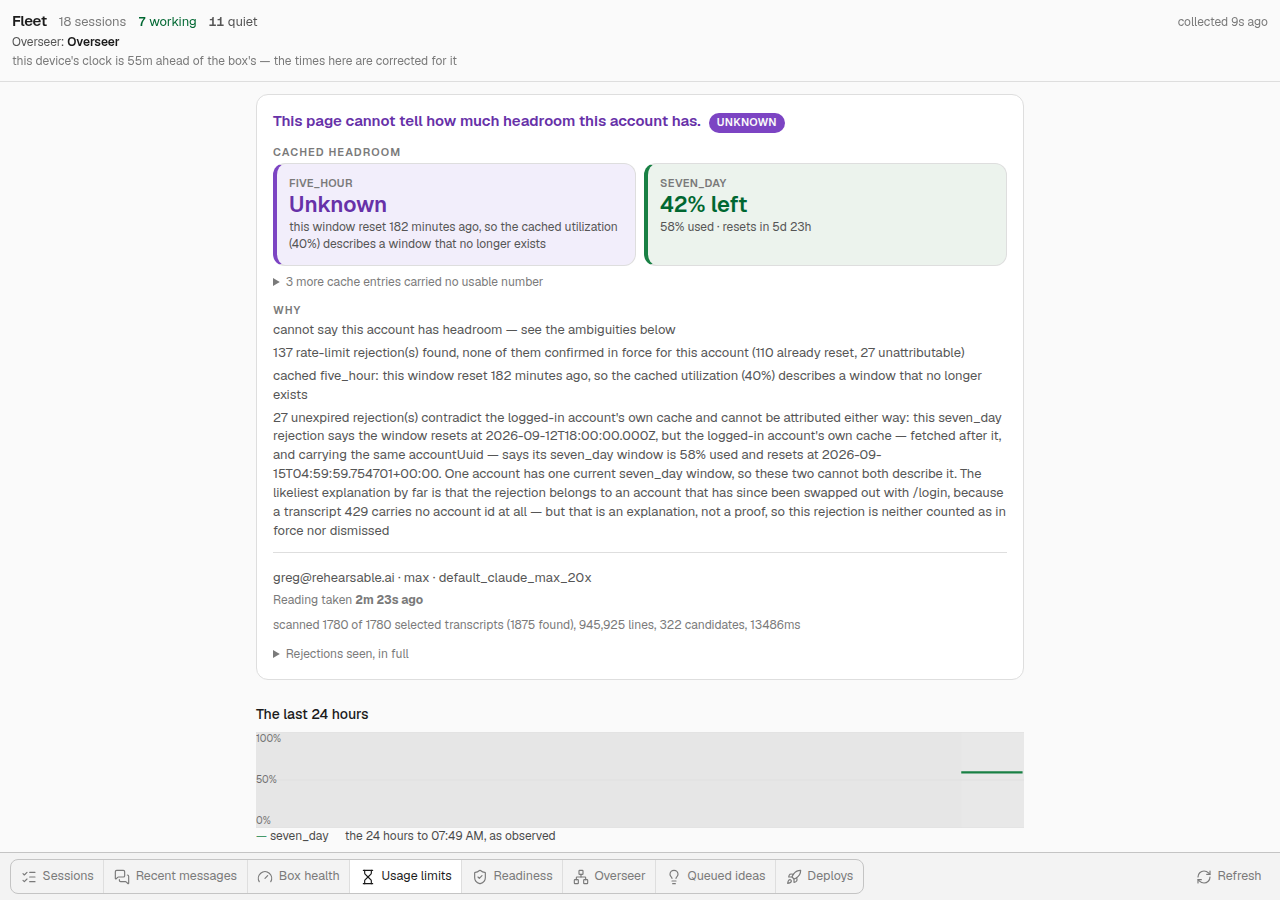
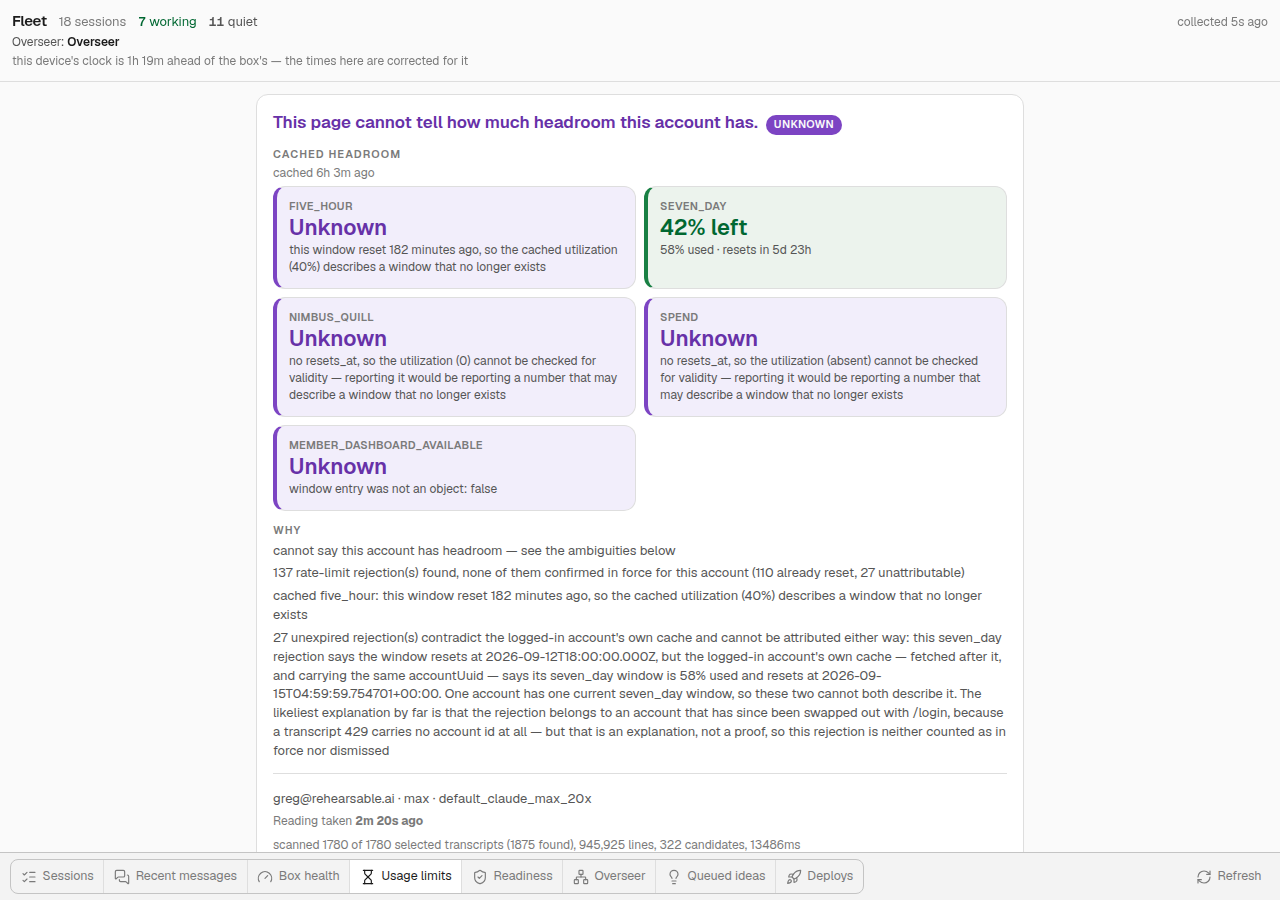
Round two clears the stage, and two more things found by looking rather than running
Sol round two, discovery closed, scoped to the five fixes: no P0, no P1, "the five fixes are sound;
I would land 20f8c504". It confirmed all four judgement calls — withdrawing the fold was correct
because folding all but today's known names would still invent a future compatibility contract;
Unknown for both broad arms is right, and Withheld and Unavailable each having one precise caller is
evidence those states mean something specific rather than a smell; and 22/17/13 reads as three
levels.

Two P2s, both about my own prose overclaiming, both fixed. A comment said the exact cache instant
"can remain in the tooltip" while USAGE_TIPS.cached was static and never received fetchedAt — a
sentence asserting a behaviour that was not there. usageCachedTip(fetchedAt) computes it now. And
the new colour test used 95% used against a verdict of ok, which the producer's 80% threshold cannot
emit: the mutation was caught, but a fixture the real system cannot reach proves something about
nothing. It is 75%/ok now, which is exactly where the withdrawn left<=25 rule would have shouted
over a verdict saying the account is fine.

Before that, the screenshot caught UL-05's first fix being wrong in the other direction. Dropping
the invented thresholds I set the tone to work — and work is this palette's green, the status colour
of a session that is running. On a headroom figure green does not read as measured, it reads as
[…]

Changed region(s): [[0.1875, 0.1244, 0.8125, 0.9644], [0.0938, 0.0622, 0.3438, 0.0933], [0.9375, 0.0, 0.9688, 0.0311]]

diff --git a/tests/fleet-usage-card.test.tsx b/tests/fleet-usage-card.test.tsx
@@ -564,7 +564,7 @@ describe("the card, against its own clock", () => {
     expect(screen()).toContain("59% left");
   });
 
-  it("does not invent a severity of its own for a nearly-full window", () => {
+  it("does not invent a severity of its own for a window the verdict calls fine", () => {
     /* **THE CARD MAY NOT SECOND-GUESS THE VERDICT.** A draft coloured each
        window by thresholds this file made up — alarm under 10% left, needs
        under 25% — and GPT Sol measured what that costs against the producer's
@@ -584,8 +584,13 @@ describe("the card, against its own clock", () => {
       summary: {
         collectedAt: ago(60_000),
         account: { kind: "value", email: "greg@example.test", accountUuid: "acct-1111", orgId: null, orgName: null, subscriptionType: "max", rateLimitTier: null },
-        /* The producer says the account is FINE at 95% of one window. That is
-           its call to make, and the card must not overrule it. */
+        /* **A COMBINATION THE PRODUCER CAN ACTUALLY EMIT.** The first version of
+           this test used 95% used against `ok`, which its 80% threshold cannot
+           produce — the mutation was still caught, but a fixture the real system
+           cannot reach is a test that proves something about nothing. GPT Sol's
+           round-two P2. 75% against `ok` is inside the threshold and is exactly
+           where the withdrawn `left <= 25` rule would have shouted `needs` over
+           a verdict saying the account is fine. */
         level: "ok",
         reasons: [],
         cache: {
@@ -596,7 +601,7 @@ describe("the card, against its own clock", () => {
             {
               kind: "value",
               window: "five_hour",
-              utilizationPercent: 95,
+              utilizationPercent: 75,
               resetsAt: new Date(BASE + 60 * 60_000).toISOString(),
             },
           ],
@@ -607,9 +612,16 @@ describe("the card, against its own clock", () => {
     });
     draw(feed, BASE);
     const value = container.querySelector('[data-slot="stat-value"]');
-    expect(value?.textContent).toBe("5% left");
+    expect(value?.textContent).toBe("25% left");
     expect(value?.className).not.toContain("alarm");
     expect(value?.className).not.toContain("needs");
+    /* **AND NOT THE REASSURING COLOUR EITHER**, which the first fix got wrong:
+       it used the `work` tone, and `work` is this palette's green — the status
+       colour of a session that is running. On a headroom figure green does not
+       read as "measured", it reads as "healthy", so `5% left` would have been
+       drawn as good news. A severity claim in the opposite direction is still a
+       severity claim. */
+    expect(value?.className).not.toContain("work");
   });
 
   it("does not print floating-point debris as the answer to how much is left", () => {

diff --git a/tools/fleet/web/src/UsagePanel.tsx b/tools/fleet/web/src/UsagePanel.tsx
@@ -151,6 +151,24 @@ export const USAGE_TIPS: Record<string, Tip> = {
 };
 
 /**
+ * The cache's own card, carrying the instant its age is an age of.
+ *
+ * Computed rather than the static `USAGE_TIPS.cached`, because a comment
+ * claiming "the exact instant remains in the tip" while the tip was static was
+ * an overclaim in prose about the thing prose cannot check — GPT Sol's round-two
+ * P2, and [written-down-is-not-checked.md](../../../docs/reusable/written-down-is-not-checked.md)
+ * is the class. The age is what a reader judges freshness by; the instant is
+ * what they quote into a message, and it now exists.
+ */
+export function usageCachedTip(fetchedAt: string): Tip {
+  return {
+    head: USAGE_TIPS["cached"]!.head,
+    what: `${USAGE_TIPS["cached"]!.what} This one was fetched ${whenLine(fetchedAt)}.`,
+    how: USAGE_TIPS["cached"]!.how,
+  };
+}
+
+/**
  * One window's card. Computed rather than a map entry, because half of it is
  * the window's own name and reset instant — the same shape as `instantTip`.
  */
@@ -378,11 +396,20 @@ function windowStat(window: UsageWindowCard, asOf: number, skew: ClockSkew): {
        file's header forbids, and I had flagged the numbers as invented in the
        review prompt before knowing they were also wrong.
 
-       `work` unconditionally: a real number, drawn as a real number. The
+       **`idle`, which is the neutral one — NOT `work`.** The first attempt at
+       this fix used `work`, and `work` is the green in this palette: the status
+       colour for a session that is running. On a headroom figure green does not
+       mean "measured", it means "healthy" — so `4% left` would have been drawn
+       in the reassuring colour, which is a severity claim of exactly the kind
+       the finding was about, made in the other direction. Sol's word was
+       *neutral* and it was the right word.
+
+       A real number, drawn as a real number: 22px and semibold still make it
+       the biggest thing in its box, which is what the card is for. The
        account's severity is the verdict's to state, once, at the top. The way
        to earn a per-window colour is for the producer to carry a per-window
        status — noted in plan 260909c. */
-    tone: "work",
+    tone: "idle",
   };
 }
 
@@ -716,7 +743,7 @@ function Reading({
           this rewrite removed. Same rule, the other way up. */}
       {summary.cache.kind === "attributed" ? (
         <p className="tw:mt-1 tw:text-note tw:text-ink-faint">
-          <Explain tip={USAGE_TIPS["cached"]!}>
+          <Explain tip={usageCachedTip(summary.cache.fetchedAt)}>
             cached {ago(summary.cache.fetchedAt, asOf, skew).text}
           </Explain>
         </p>

diff --git a/docs/plans/260909c-dashboard-design-system-research-a-reusable-ui-ux-prompt-then-apply-it-usage-limits-first.md b/docs/plans/260909c-dashboard-design-system-research-a-reusable-ui-ux-prompt-then-apply-it-usage-limits-first.md
@@ -626,6 +626,51 @@ green: every other assertion is about words, and that one is about colour. There
 draws a window at 95% used against a verdict of `ok` and asserts the value carries neither the alarm
 nor the needs ink. Three of the four earlier mutations were caught; this is the fourth, closed.
 
+**UL-05's first fix was wrong in the other direction, and the screenshot caught that too.** Dropping
+the thresholds, I set the tone to `work` — and `work` is this palette's green, the status colour of
+a session that is running. On a headroom figure green does not read as *measured*, it reads as
+*healthy*, so `4% left` would have been drawn as good news. Sol's word was **neutral** and it was
+the right word; the tone is `idle` now, and the test asserts the absence of all three severity inks
+rather than only the loud two. Size and weight still make the number the biggest thing in its box,
+which is what the card is for.
+
+That makes **three** defects on this tab found by looking at the rendering rather than by running
+anything, all three after a green suite, and all three about *colour* — the one property every
+assertion here was blind to until this stage added one.
+
+### Round two: no P0, no P1, land it
+
+[260909c-dashboard-design-system-usage-code-review-2-sol.md](260909c-dashboard-design-system-usage-code-review-2-sol.md),
+scoped to the five fixes with discovery closed. *"The five fixes are sound; I would land
+`20f8c504`."* It confirmed the four judgement calls: withdrawing the fold was correct (folding all
+but today's known names *"would still invent a future compatibility contract"*); `Unknown` for both
+broad arms is right, and `Withheld` and `Unavailable` each having one precise caller is *"evidence
+that those states now mean something specific, not a smell"*; and 22 / 17 / 13 reads as three
+levels.
+
+**Two P2s, both about my own prose overclaiming, both fixed:**
+
+- The comment said the exact cache instant *"can remain in the tooltip"* while `USAGE_TIPS.cached`
+  was static and never received `fetchedAt`. A sentence asserting a behaviour that was not there —
+  [written-down-is-not-checked.md](../reusable/written-down-is-not-checked.md)'s exact shape.
+  `usageCachedTip(fetchedAt)` now computes it.
+- The new colour test used **95% used against a verdict of `ok`**, which the producer's 80%
+  threshold cannot emit. The mutation was still caught, but a fixture the real system cannot reach
+  proves something about nothing. It is 75% / `ok` now — inside the threshold, and exactly where the
+  withdrawn `left <= 25` rule would have shouted over a verdict saying the account is fine.
+
+#### And the mutation check that was itself wrong
+
+Re-running the threshold mutation after that change, a test failed — but **the wrong one**. There
+are three `tone: "idle"` in the file and the `perl` substitution took the first, which is
+`headline()`'s cleared arm, not `windowStat`'s. So the run "passed" the mutation check while having
+mutated a different function; the new colour test had not been exercised at all. Targeting line 412
+specifically, it fails as intended.
+
+**A mutation you did not verify landed where you meant is a green tick for a check you did not
+run** — the same family as everything else this stage turned up, and the reason to print what the
+mutation actually changed rather than trusting a pattern to be unique.
+
 ### One question for Greg, raised once by `deploys-ui` on behalf of both tabs
 
 **`zones.ts` says a clock time is always drawn in all three zones — UTC, London, Athens — and two

diff --git a/docs/plans/260909c-dashboard-design-system-usage-code-review-2-sol.md b/docs/plans/260909c-dashboard-design-system-usage-code-review-2-sol.md
@@ -1,0 +1,27 @@
+No P0 or P1. The five fixes are sound; I would land `20f8c504`.
+
+Two non-blocking P2 observations:
+
+- [UsagePanel.tsx:717](/home/greg/code/spideryarn2/.claude/worktrees/dashboard-design-system/tools/fleet/web/src/UsagePanel.tsx:717): the visible cache age is restored, but the stated “exact instant in the tip” is not. `USAGE_TIPS.cached` is static and never receives `cache.fetchedAt`. This does not undermine the freshness fix, but the fix description overclaims.
+- [fleet-usage-card.test.tsx:589](/home/greg/code/spideryarn2/.claude/worktrees/dashboard-design-system/tests/fleet-usage-card.test.tsx:589): `95% used` with level `ok` cannot be produced by the current 80% threshold. The test still catches the intended mutation, so coverage is not weakened. A producer-valid follow-up would test `75% / ok` and `90% / approaching`.
+
+Answers:
+
+1. **UL-01 is safe.** The producer sorts confirmed live limits by reset time and publishes the latest one. Once `dueBackAt` has passed, no other positively attributed window in that report can remain active. A later unattributable window may exist, but it remains an explicit ambiguity in “Why”; hiding the cleared card does not claim that ambiguous window has cleared.
+
+2. **Withdrawing the fold was correct.** Folding everything except today’s known names would still invent a future compatibility contract. Producer-side relevance classification is the proper prerequisite.
+
+3. **Both broad arms should render `Unknown`.** `Withheld` and `Unavailable` having one precise caller each is evidence that those states now mean something specific, not a smell requiring broader use.
+
+4. **22 / 17 / 13 reads as three levels.** The supplied 390px and 1280px captures show a clear answer/lead/body hierarchy. Calling 12 and 11 density variants is honest: their distinction is supported by role, weight, colour, casing, and position rather than pretending the 1px differences establish further hierarchy.
+
+5. **The test edits did not weaken existing coverage.** The 2→3 count follows directly from restoring the absent window card, the withdrawn-fold assertions now pin the intended behavior, and the cleared-limit and rounding tests address the missing regressions. The colour mutation is now caught.
+
+Requested test run:
+
+```text
+Test Files  3 passed (3)
+Tests      34 passed (34)
+```
+
+No files were changed.

diff --git a/docs/reusable/design-a-screen.md b/docs/reusable/design-a-screen.md
@@ -334,10 +334,26 @@ you start.
         already produced reads as two facts in a diff and as one long paragraph on screen. It is
         the most common way a redesign to remove a wall of text adds to it.
 
+      **The common factor in those is colour, and a suite of text assertions is blind to it.** If a
+      status colour carries meaning on your screen, assert on it — that the calm state does not wear
+      the alarm class, *and* that a measured value does not wear the reassuring one. The second half
+      is the one that gets left out: a redesign that stops shouting usually starts by making
+      everything look fine, which is the same error with the sign flipped.
+
+      And when you mutate the code to check such a test can fail: **print what the mutation actually
+      changed.** A pattern you assumed was unique in the file will match the first of three, the
+      suite will go red somewhere else, and you will record a check you never ran.
+
       So the last step is not a command. Open the screenshot, ask the question from Half One, and
       see whether the answer is where you put it. **If you delegated the screenshots, look at them
       yourself** — a report saying "nothing is broken" is an answer to a different question, and an
       agent measuring the DOM cannot see what is `sr-only`, what is off-screen, or what is loud.
+
+      Delegated *descriptions* of a layout are wrong often enough to be worth distrusting on their
+      own: over one session's screenshot rounds, agent reports variously called a two-column grid a
+      horizontally-scrolling strip, listed an above-the-fold order that omitted the first two things
+      on the page, and reported hidden `sr-only` prose as visible body text. The screenshots
+      themselves were right every time. **Take the files; check the prose against them.**
 
 ## Source quality, briefly
 
